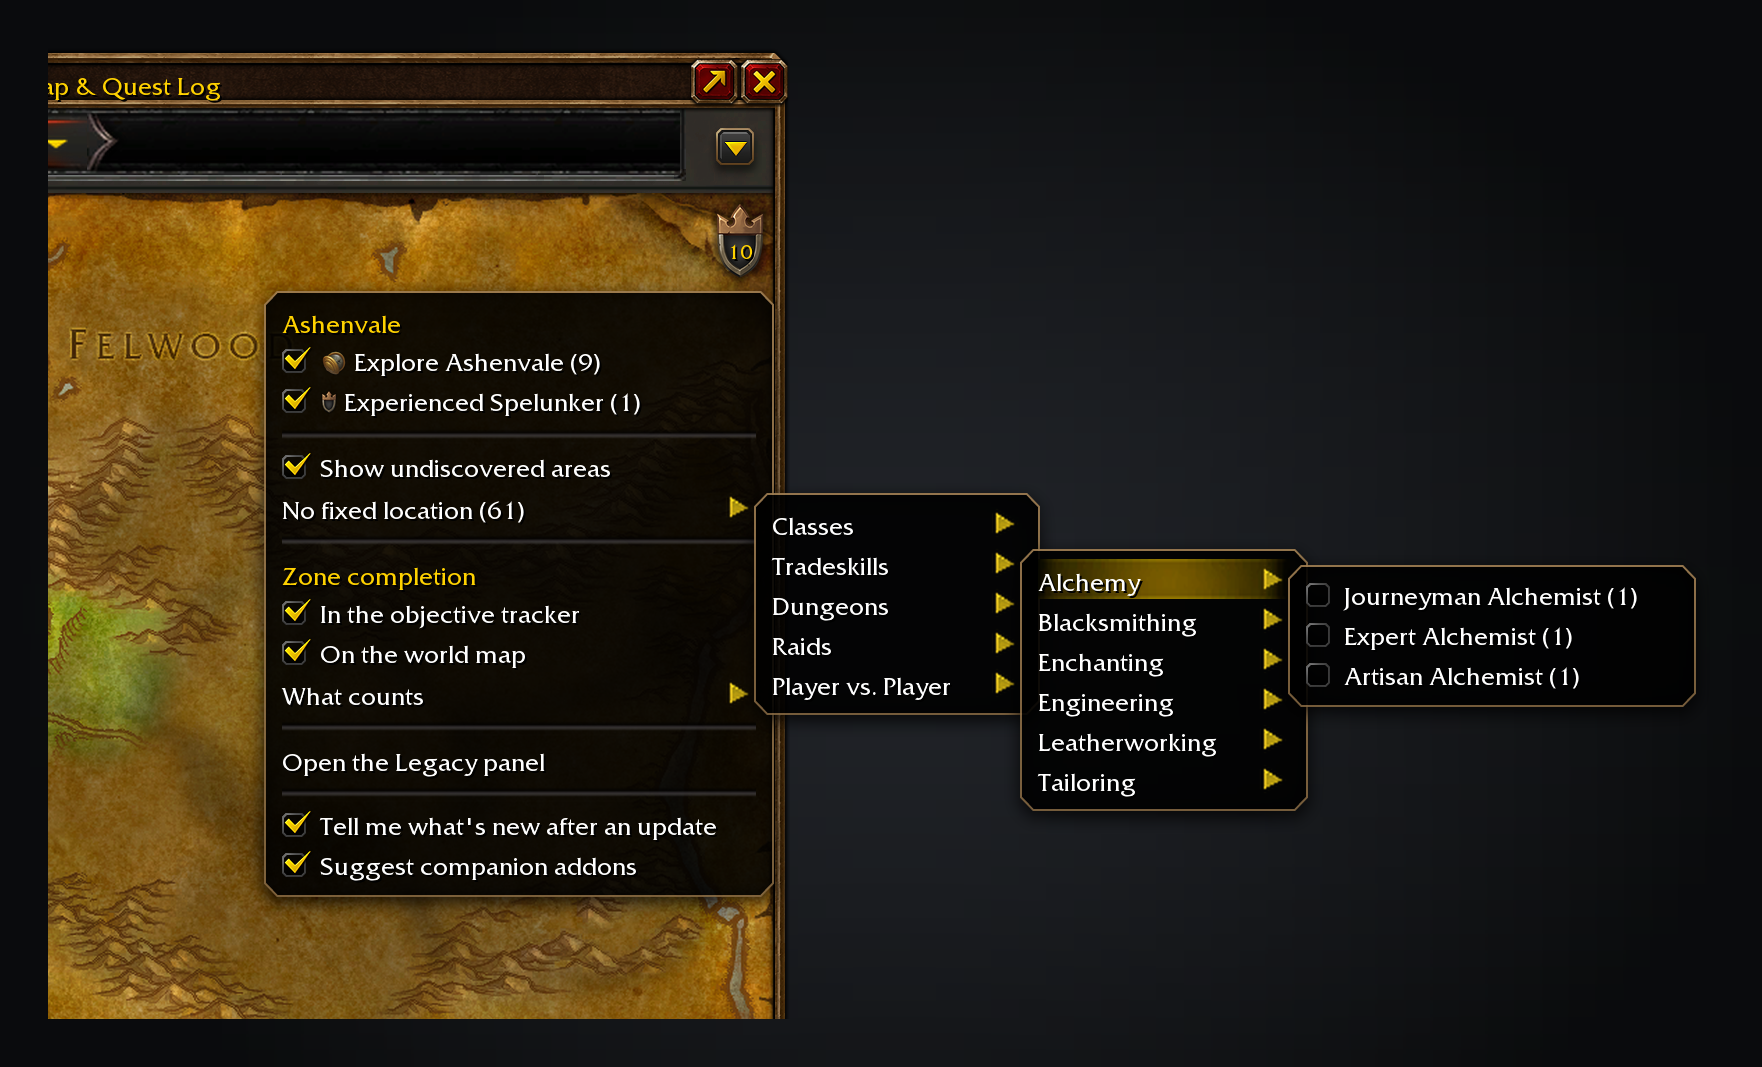
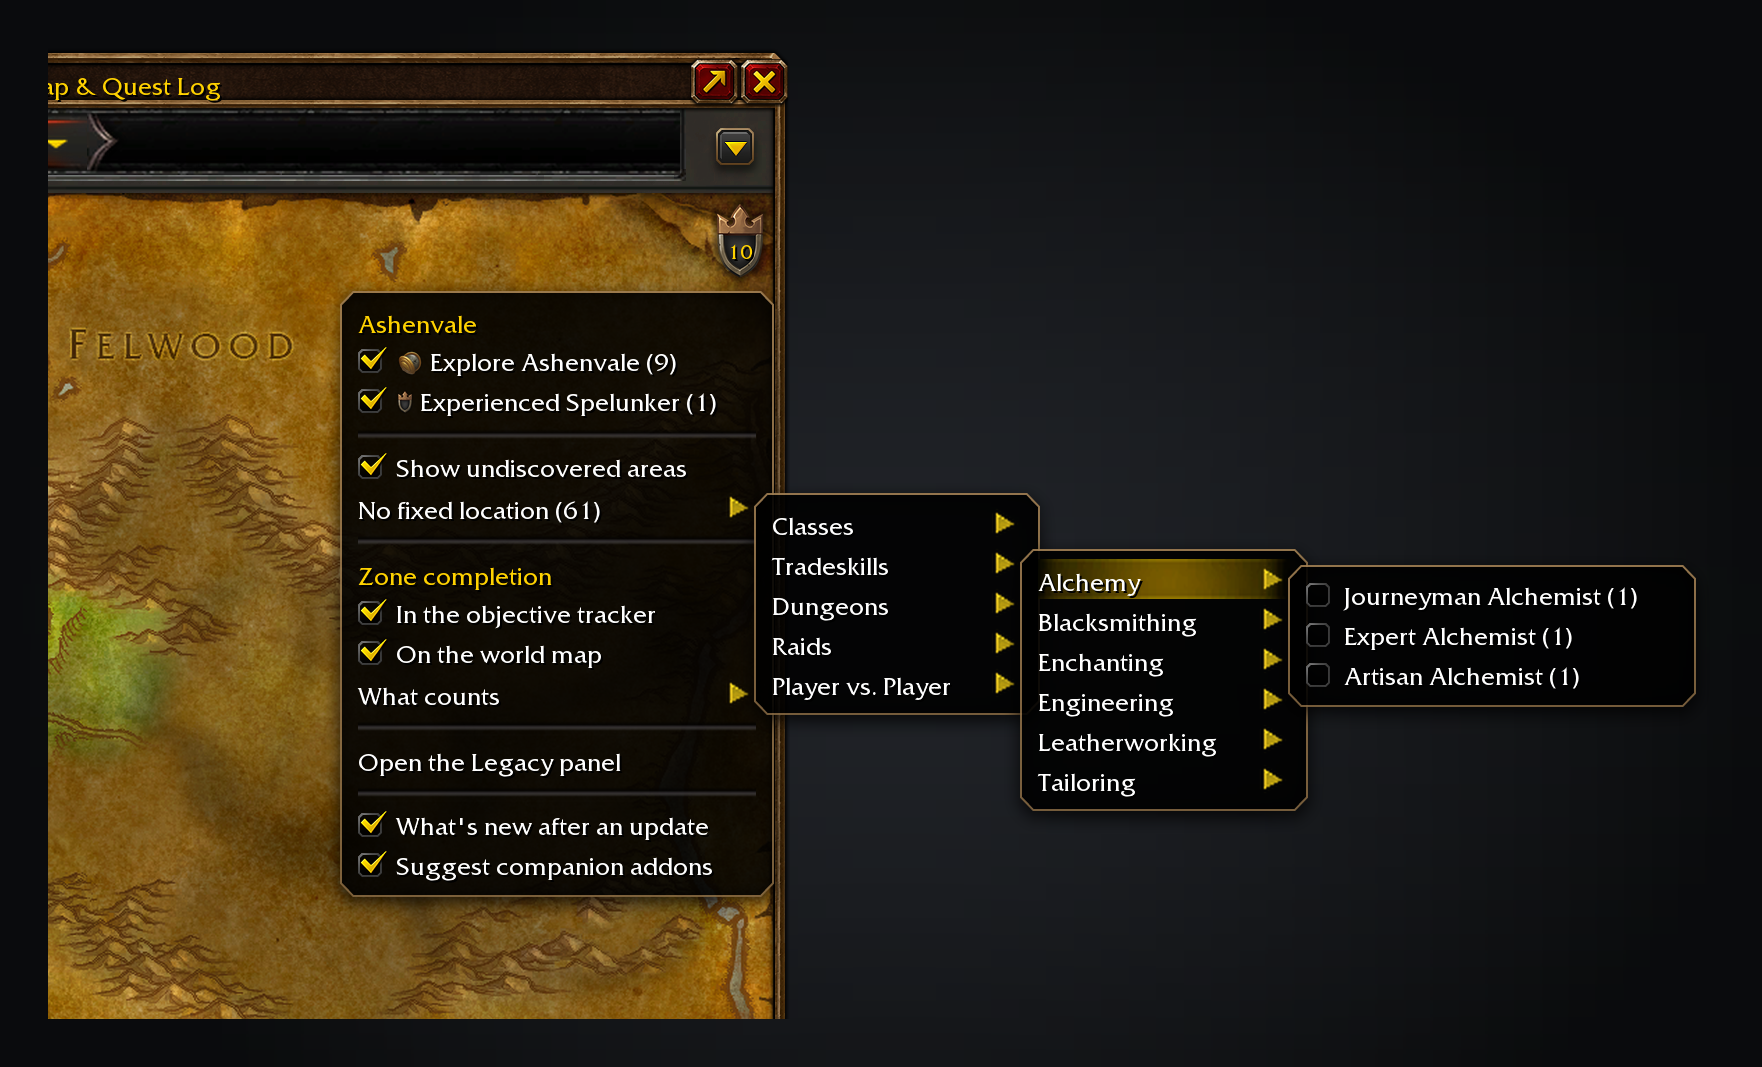
fix(tracker,map): keep the column stacked through combat and clear Questie's map button (#77)
```mermaid
flowchart TB
  classDef ours fill:#2d6a4f,color:#fff,stroke:#1b4332
  classDef game fill:#1d3557,color:#fff,stroke:#0b2545
  classDef bad fill:#9d0208,color:#fff,stroke:#6a040f
  H["`**Forever column**
  our sections`"]:::ours --> N["`**Quest tracker**
  stacked below, unclamped`"]:::game
  C["`**Combat**
  game restores the tracker height`"]:::game --> N
  N -. "`before: clamped, pushed up over the column`" .-> X["`column thrown sideways`"]:::bad
  N --> K["`now: runs off the bottom edge until combat ends`"]:::ours
  E["`**Edit Mode / detach**`"]:::game --> R["`clamp handed back`"]:::ours
```

**Why.** In combat the game restores `ObjectiveTrackerFrame` to its own
height. Clamped to the screen, the taller frame was pushed up over our
column, the room check failed and the column jumped sideways until the
fight ended. The native frame is now unclamped while it is stacked under
our column and gets its clamp back on detach and while Edit Mode owns
it; the combat branch also leaves everything alone while the native
frame is still where the last reflow put it.

`UI/TrackerHost.lua` and its two specs are byte-identical across
Adventure Guide, Shortest Path, SkillUp and Legacy (the client loads
whichever copy comes first), so the same change lands in all four.

**Tested.** Live in game on two characters (tracker on the left and on
the right): identical positions before, during and after combat, no
[…]

Changed region(s): [[0.1249, 0.2474, 0.4058, 0.866]]

diff --git a/tools/screenshots.py b/tools/screenshots.py
@@ -412,7 +412,7 @@ def main_menu(ui, live):
         MenuDivider(),
         MenuButton("Open the Legacy panel"),
         MenuDivider(),
-        MenuCheckbox("Tell me what's new after an update", True),
+        MenuCheckbox("What's new after an update", True),
         MenuCheckbox("Suggest companion addons", True),
     ]
     return entries

diff --git a/CHANGELOG.md b/CHANGELOG.md
@@ -11,6 +11,13 @@ verbatim rather than rewritten as the addon moves.
 
 ## [Unreleased]
 
+## [0.6.9] - 2026-10-02
+
+- **The guides stay put in a fight.** In combat the game stretches its quest tracker and nudges it back on screen, which shoved the Forever sections sideways across the screen until the fight ended. They now stay stacked above the quest list.
+- **Say why the Legacy panel will not open.** Until the game unlocks its Legacy panel, the entries that open it are greyed out and show the game's own reason, in place of a button that did nothing.
+- **The map button clears Questie's.** With Questie installed, the Legacy button sat on top of its button in the map's top-right corner. It now takes the next place down.
+- **The what's-new setting fits the settings panel.** Its name was cut off with an ellipsis; it now reads *What's new after an update*.
+
 ## [0.6.8] - 2026-10-01
 
 - **Keep guides clear of quests in combat.** Companion sections stay clear when the quest list grows during a fight. Detaching restores the quest tracker’s original Edit Mode position.
